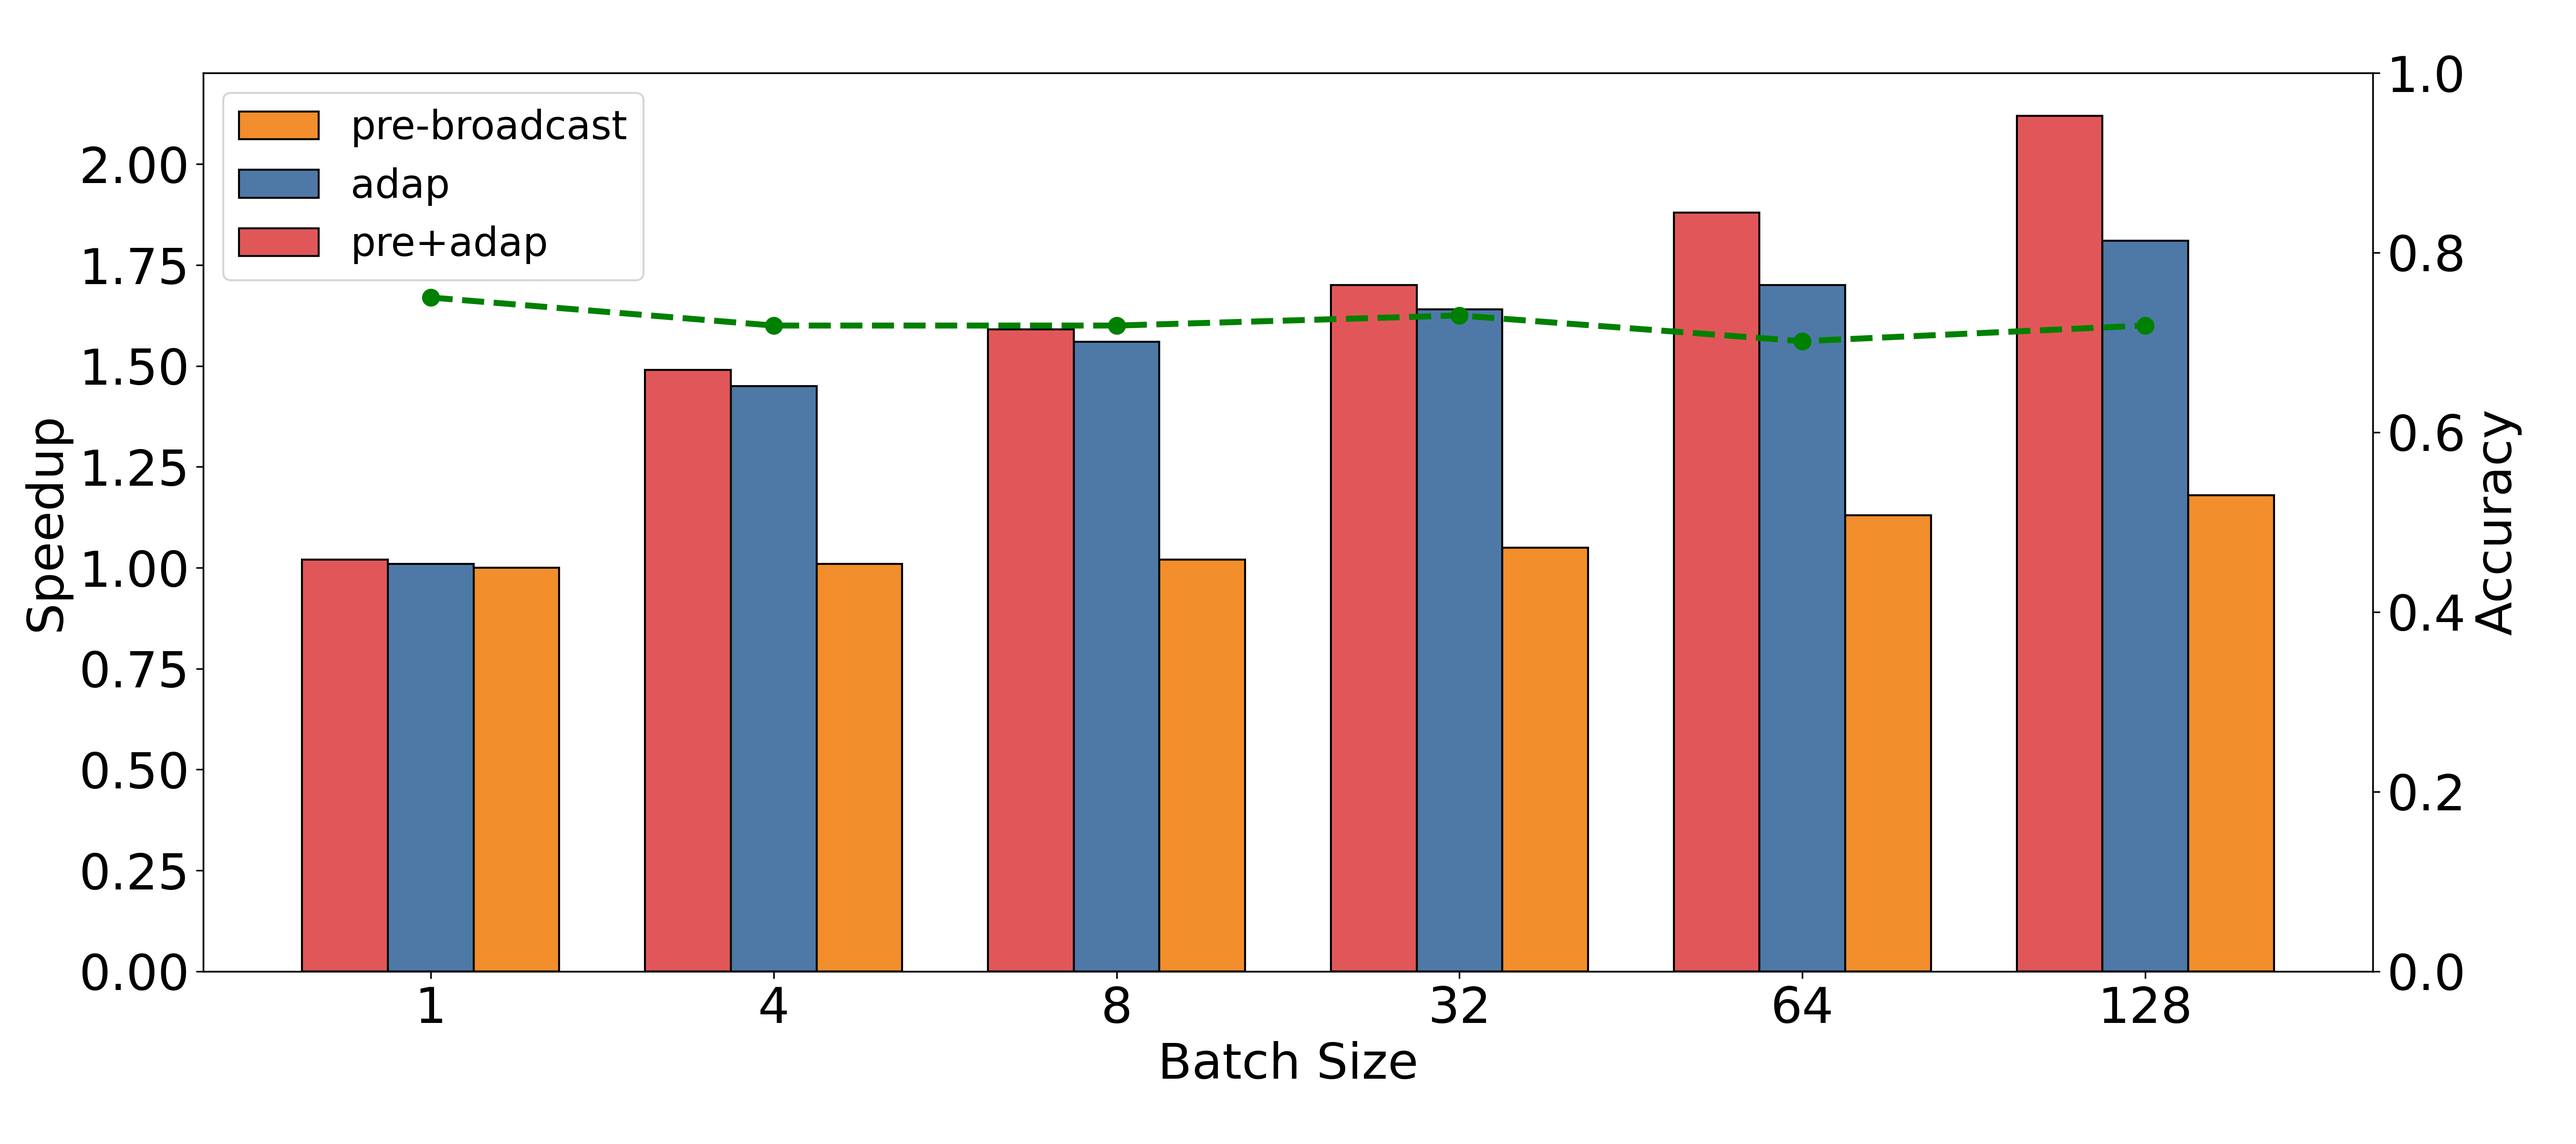
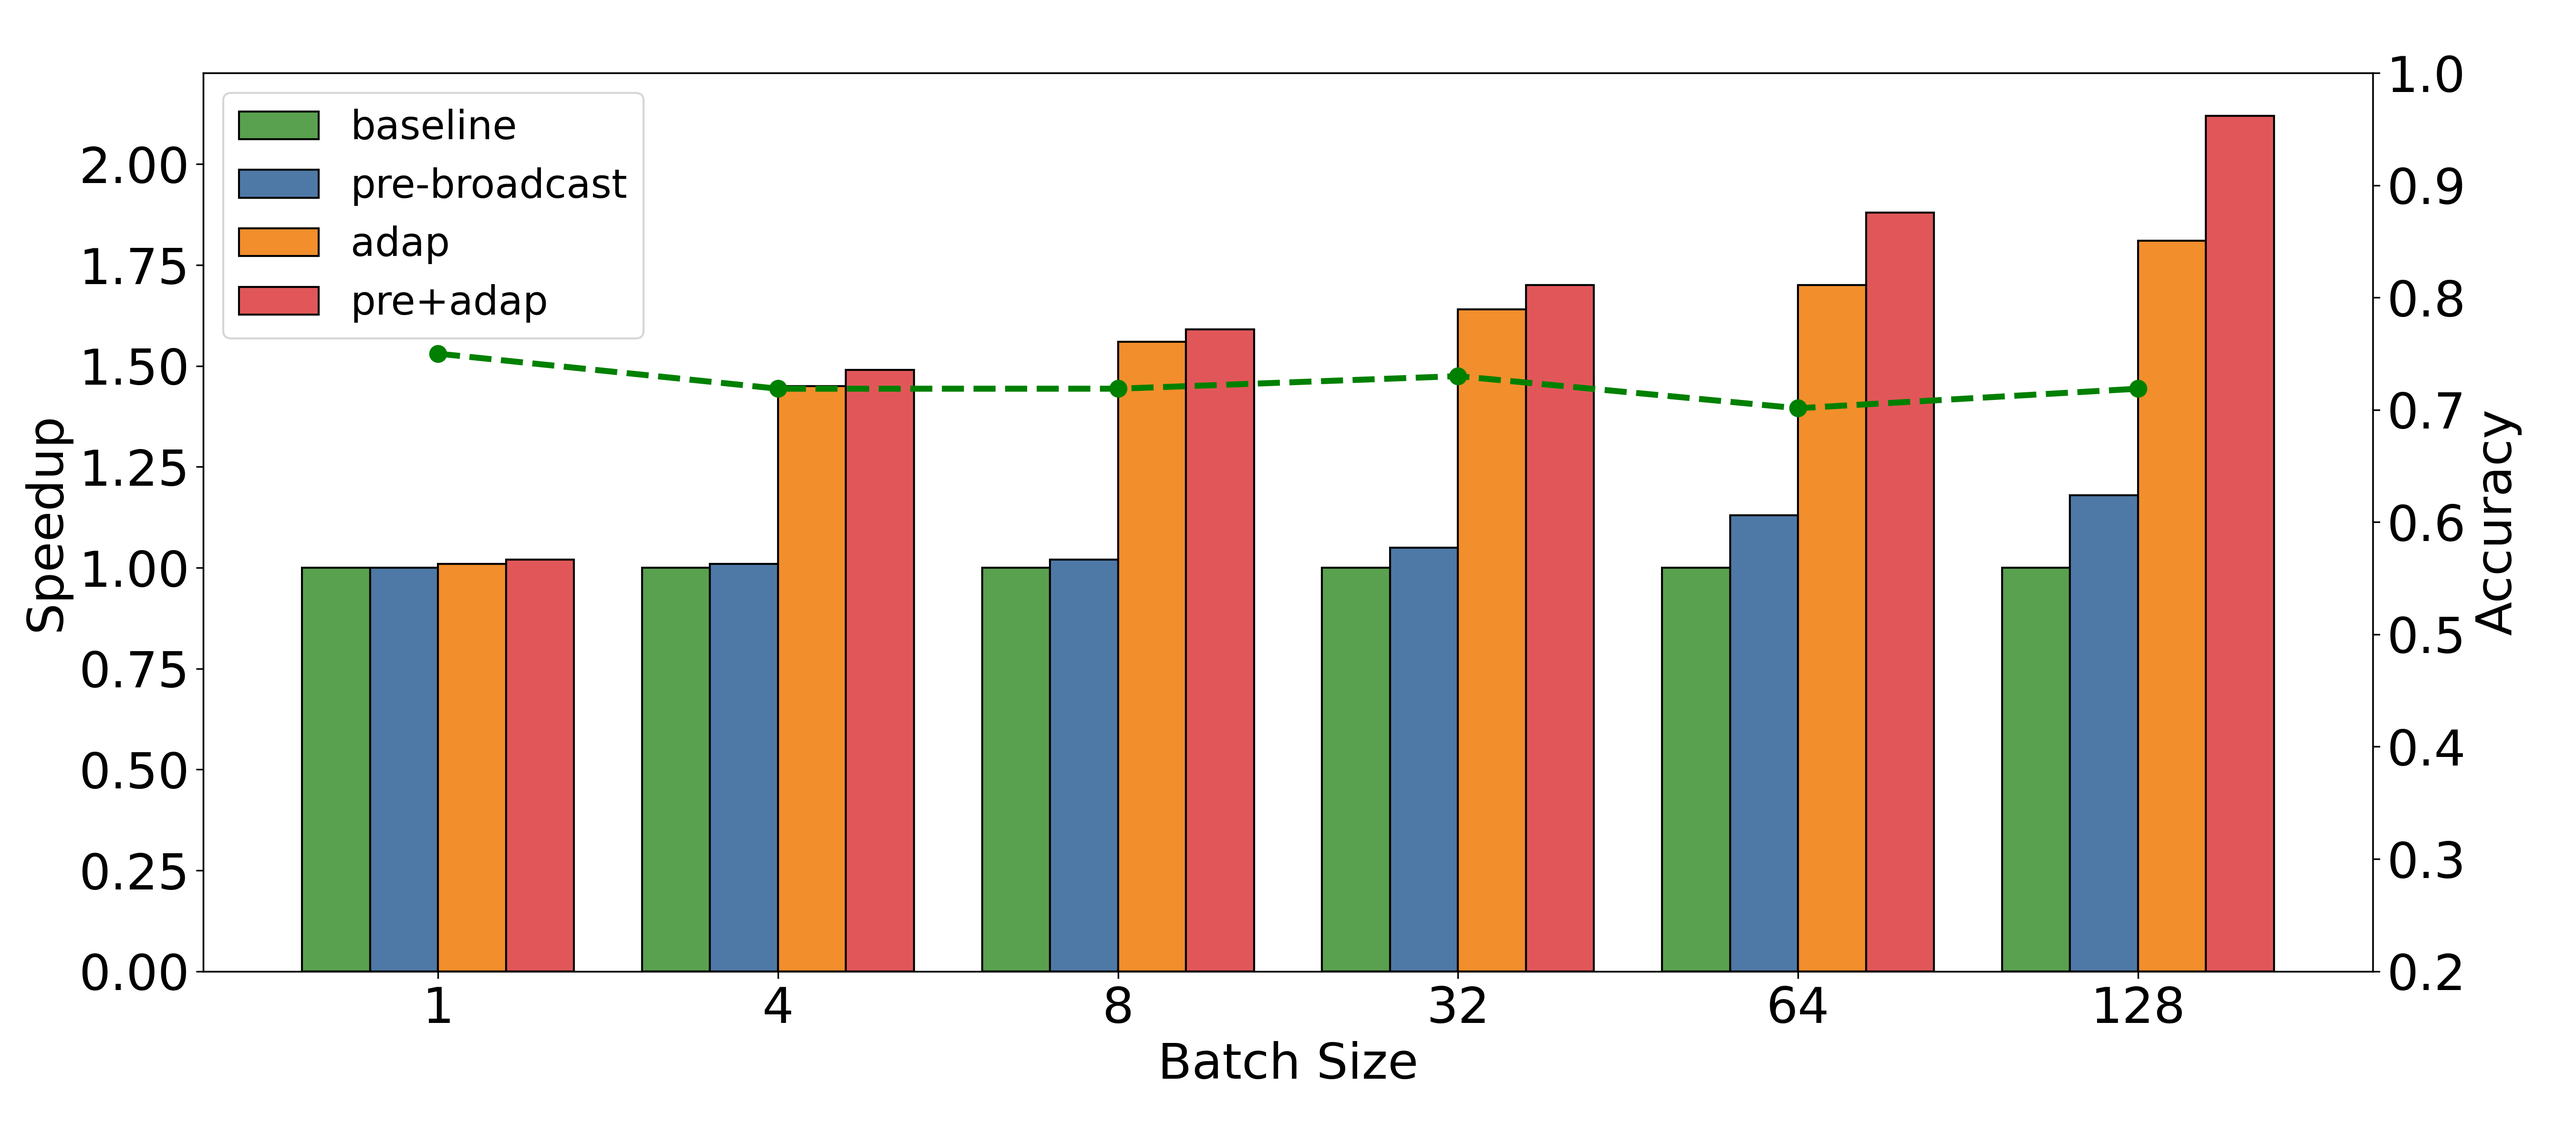
添加adaptive评估

diff --git a/evaluation/draw/draw_adaptive.py b/evaluation/draw/draw_adaptive.py
@@ -6,7 +6,7 @@ import matplotlib.pyplot as plt
 import numpy as np
 
 def plot_adaptive_results(x_axis: str = "reward_comp",
-                          json_file_path: str = "/data/home/shengxuanqiu/TCAD/evaluation/results/result_adaptive0.json",
+                          json_file_path: str = "/data/home/shengxuanqiu/TCAD/evaluation/results/result_adaptive.json",
                           filter_comp: float | None = 3e-4):
     """
     读取 result_adaptive.json 文件，并绘制
@@ -66,20 +66,22 @@ def plot_adaptive_results(x_axis: str = "reward_comp",
         # 创建图表
         fig, ax = plt.subplots(1, 1, figsize=(18, 8))
         
-        # 设置颜色
-        colors = ["#F28E2B", "#4E79A7","#E15759" ]  # 橙色，蓝色，红色
+        # 设置颜色（绿，蓝，橙，红）
+        colors = ["#59A14F", "#4E79A7", "#F28E2B", "#E15759"]
         
         # 准备数据
         x = np.arange(len(batches))
-        width = 0.25
+        width = 0.2
         
-        # 绘制速度比的柱状图（修改顺序和颜色）
-        ax.bar(x + width, [speedup_data[batch]['pre-broadcast'] for batch in batches], 
-               width, label='pre-broadcast', color=colors[0], edgecolor="black")
-        ax.bar(x, [speedup_data[batch]['adap'] for batch in batches], 
-               width, label='adap', color=colors[1], edgecolor="black")
-        ax.bar(x - width, [speedup_data[batch]['pre+adap'] for batch in batches], 
-               width, label='pre+adap', color=colors[2], edgecolor="black")
+        # 绘制速度比的柱状图（从左到右：baseline, pre-broadcast, adap, pre+adap）
+        ax.bar(x - 1.5*width, [1.0] * len(batches),  # baseline固定为1
+               width, label='baseline', color=colors[0], edgecolor="black")
+        ax.bar(x - 0.5*width, [speedup_data[batch]['pre-broadcast'] for batch in batches], 
+               width, label='pre-broadcast', color=colors[1], edgecolor="black")
+        ax.bar(x + 0.5*width, [speedup_data[batch]['adap'] for batch in batches], 
+               width, label='adap', color=colors[2], edgecolor="black")
+        ax.bar(x + 1.5*width, [speedup_data[batch]['pre+adap'] for batch in batches], 
+               width, label='pre+adap', color=colors[3], edgecolor="black")
         
         # 绘制准确率的折线图
         ax2 = ax.twinx()
@@ -95,7 +97,7 @@ def plot_adaptive_results(x_axis: str = "reward_comp",
         
         # 设置准确率的y轴
         ax2.set_ylabel("Accuracy", fontsize=size)
-        ax2.set_ylim([0, 1.0])
+        ax2.set_ylim([0.2, 1.0])
         
         plt.tight_layout()
         out_png = '/data/home/shengxuanqiu/TCAD/evaluation/figs/adaptive/adaptive_batch_comparison.png'
@@ -254,7 +256,7 @@ if __name__ == '__main__':
     parser = argparse.ArgumentParser()
     parser.add_argument('--x-axis', choices=['reward_comp', 'reward_comm', 'batch'], default='batch',
                         help='选择横坐标')
-    parser.add_argument('--json', type=str, default='/data/home/shengxuanqiu/TCAD/evaluation/results/result_adaptive0.json',
+    parser.add_argument('--json', type=str, default='/data/home/shengxuanqiu/TCAD/evaluation/results/result_adaptive.json',
                         help='结果 JSON 文件路径')
     parser.add_argument('--filter-comp', type=str, default='3e4',
                         help='仅保留 reward_comp为该值的条目')
